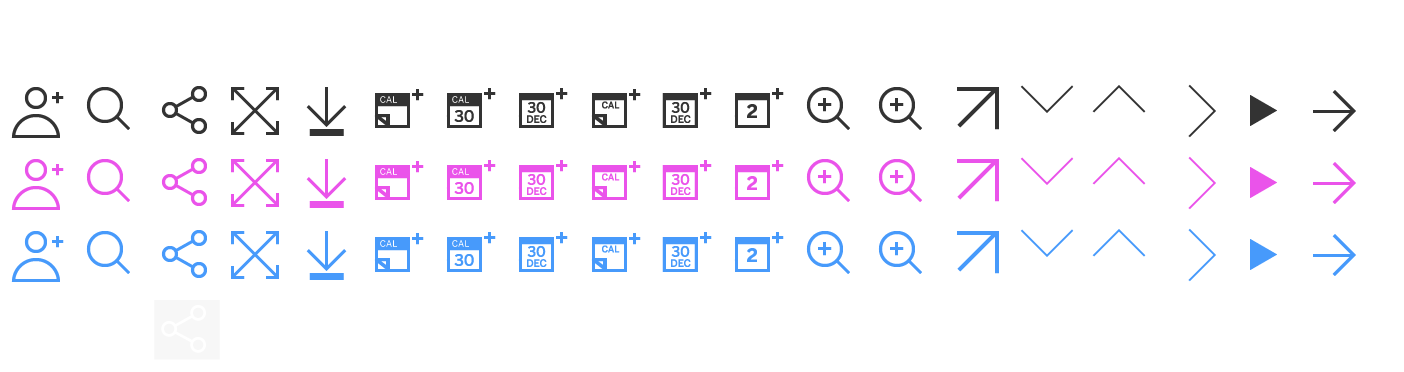
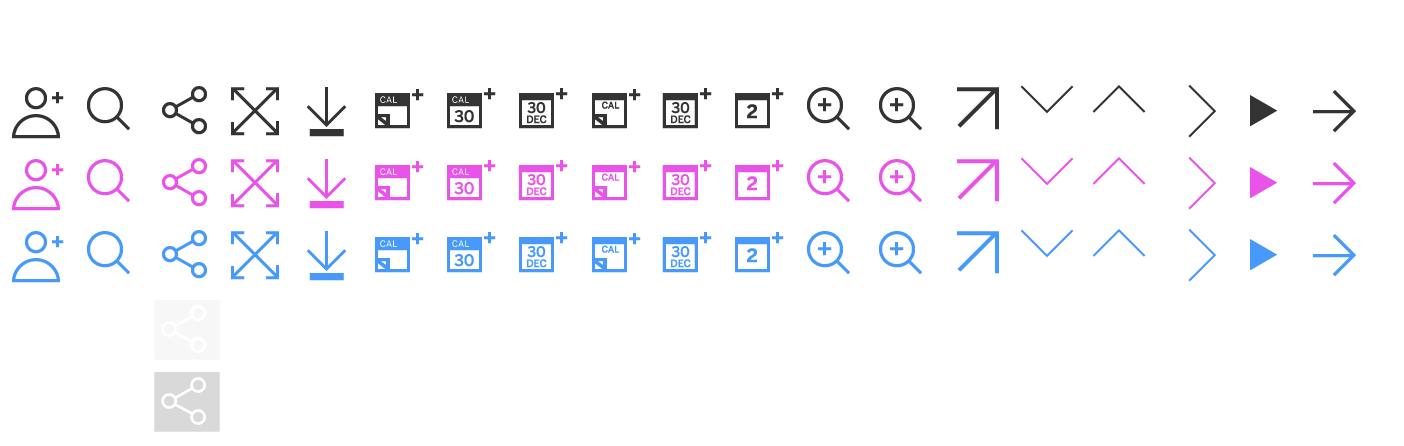
tweaks

diff --git a/django-verdant/rca_show/static/rca_show/css/modules.less b/django-verdant/rca_show/static/rca_show/css/modules.less
@@ -154,7 +154,7 @@
     .sprite-load-54(
         @positionX: -162px,
         @positionY: -86px,
-        @retinaPositionX: -323px,
+        @retinaPositionX: -3px,
         @retinaPositionY: -172px,
         @width: 47px,
         @height: @share-link-height
@@ -164,9 +164,9 @@
 
         .sprite-load-54(
             @positionX: -161px,
-            @positionY: -305px,
+            @positionY: -377px,
             @retinaPositionX: -323px,
-            @retinaPositionY: -610px,
+            @retinaPositionY: -754px,
             @width: 47px,
             @height: @share-link-height
         );

diff --git a/django-verdant/rca_show/static/rca_show/css/modules-desktop-small.less b/django-verdant/rca_show/static/rca_show/css/modules-desktop-small.less
@@ -3,13 +3,16 @@
         background-color:@color-pale-grey;
       
         &:hover {
-            background-color: @color-pink;
             color: @color-white;
         }
     }
     
     li.active a{
-        background-color: @color-tab-grey;
+        background-color: @color-tab-grey !important;
+
+        &:hover{
+        	color:inherit;
+        }
     }
 }
 

diff --git a/django-verdant/rca/static/rca/css/mixins.less b/django-verdant/rca/static/rca/css/mixins.less
@@ -158,7 +158,7 @@
     @media @media-retina {
         background-image: url("@{path-static}images/icons-54-std@2x-2.png");
         background-position: @retinaPositionX/2 @retinaPositionY/2;
-        background-size:2808/2px 744/2px;
+        background-size:2808/2px 892/2px;
     }
 }
 
